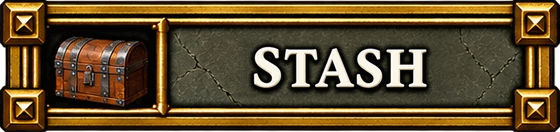
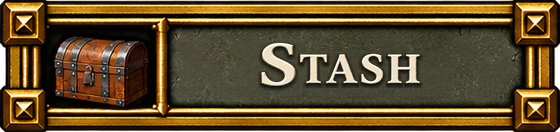
feat: painted English menu buttons
ADD ITEM, CHARACTERS, SALES, CHRONICLE and HELP (plain and active), and
STASH redone in the originals' small-caps style. Alts keeps its button.

diff --git a/web/src/App.tsx b/web/src/App.tsx
@@ -35,7 +35,7 @@ const NAV: [string, Key, string, Area | null][] = [
 ]
 const MENU = `${import.meta.env.BASE_URL}ikoner/meny/`
 /** Menyknappar som har en målad engelsk version i ikoner/meny/en/; övriga visar den svenska bilden. */
-const EN_MENU = new Set<string>(['forrad'])
+const EN_MENU = new Set<string>(['forrad', 'lagg-till', 'karaktarer', 'salda', 'kronikan', 'hjalp'])
 const menuSrc = (lang: string, icon: string, suffix: string) =>
   `${MENU}${lang === 'en' && EN_MENU.has(icon) ? 'en/' : ''}${icon}${suffix}.webp`
 
